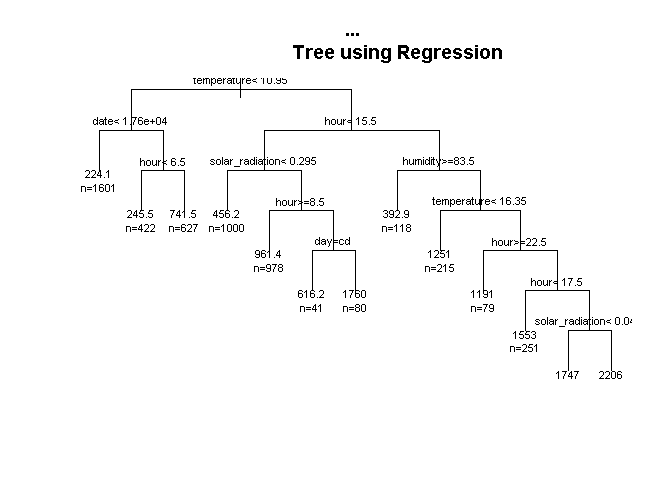
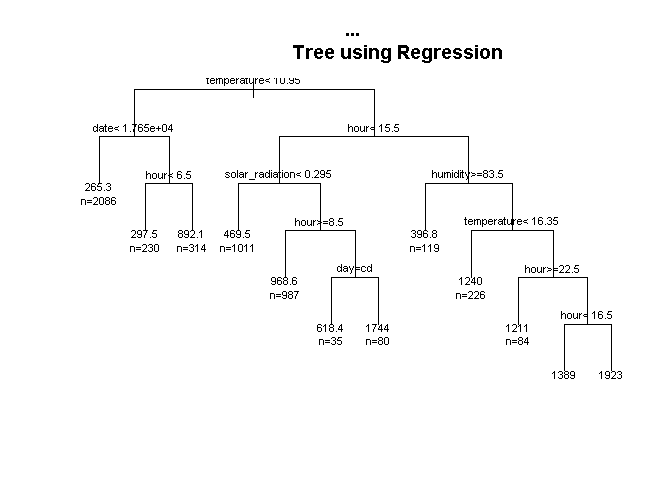
new commit

diff --git a/SeoulBikeRent/SeoulBikeRent.md b/SeoulBikeRent/SeoulBikeRent.md
@@ -347,7 +347,7 @@ ggplot(clean_bike, aes( x=date, y =rented_bike_count, color= temperature)) + geo
   facet_wrap(~seasons, scales = "free_x") +
 ylab('Count of Rented Bikes')  +
 xlab('Date') +
-ggtitle('Seasonal Bike Rent Dependency on Date in Seoul')  + 
+ggtitle('Seasonal Bike Rent Dependency in Seoul')  + 
  scale_fill_viridis(direction = -1)+
   scale_colour_viridis_c(option = "plasma")
 ```
@@ -380,13 +380,13 @@ glimpse(train)
     ## Rows: 5,917
     ## Columns: 13
     ## $ date              <date> 2017-12-01, 2017-12-01, 2017-12-01, 2017-12-01, 201~
-    ## $ rented_bike_count <int> 254, 204, 107, 78, 100, 460, 360, 449, 451, 447, 463~
-    ## $ hour              <int> 0, 1, 3, 4, 5, 7, 11, 12, 13, 14, 15, 16, 17, 18, 20~
-    ## $ temperature       <dbl> -5.2, -5.5, -6.2, -6.0, -6.4, -7.4, -0.5, 1.7, 2.4, ~
-    ## $ humidity          <int> 37, 38, 40, 36, 37, 38, 21, 23, 25, 26, 36, 54, 58, ~
-    ## $ wind_speed        <dbl> 2.2, 0.8, 0.9, 2.3, 1.5, 0.9, 1.3, 1.4, 1.6, 2.0, 3.~
-    ## $ visibility        <int> 2000, 2000, 2000, 2000, 2000, 2000, 1936, 2000, 2000~
-    ## $ solar_radiation   <dbl> 0.00, 0.00, 0.00, 0.00, 0.00, 0.00, 0.94, 1.11, 1.16~
+    ## $ rented_bike_count <int> 254, 173, 107, 78, 100, 181, 460, 930, 490, 360, 449~
+    ## $ hour              <int> 0, 2, 3, 4, 5, 6, 7, 8, 9, 11, 12, 13, 14, 15, 16, 1~
+    ## $ temperature       <dbl> -5.2, -6.0, -6.2, -6.0, -6.4, -6.6, -7.4, -7.6, -6.5~
+    ## $ humidity          <int> 37, 39, 40, 36, 37, 35, 38, 37, 27, 21, 23, 25, 26, ~
+    ## $ wind_speed        <dbl> 2.2, 1.0, 0.9, 2.3, 1.5, 1.3, 0.9, 1.1, 0.5, 1.3, 1.~
+    ## $ visibility        <int> 2000, 2000, 2000, 2000, 2000, 2000, 2000, 2000, 1928~
+    ## $ solar_radiation   <dbl> 0.00, 0.00, 0.00, 0.00, 0.00, 0.00, 0.00, 0.01, 0.23~
     ## $ rainfall          <dbl> 0, 0, 0, 0, 0, 0, 0, 0, 0, 0, 0, 0, 0, 0, 0, 0, 0, 0~
     ## $ snowfall          <dbl> 0, 0, 0, 0, 0, 0, 0, 0, 0, 0, 0, 0, 0, 0, 0, 0, 0, 0~
     ## $ seasons           <fct> Winter, Winter, Winter, Winter, Winter, Winter, Wint~
@@ -448,31 +448,29 @@ treem
     ## node), split, n, deviance, yval
     ##       * denotes terminal node
     ## 
-    ##   1) root 5917 2433531000  723.4610  
-    ##     2) temperature< 10.95 2650  289048900  349.9253  
-    ##       4) date< 17595.5 1601   38328480  224.1112 *
-    ##       5) date>=17595.5 1049  186699700  541.9447  
-    ##        10) hour< 6.5 422   11513210  245.4597 *
-    ##        11) hour>=6.5 627  113124500  741.4928 *
-    ##     3) temperature>=10.95 3267 1474809000 1026.4510  
-    ##       6) hour< 15.5 2099  472360900  744.4474  
-    ##        12) solar_radiation< 0.295 1000  118743600  456.2440 *
-    ##        13) solar_radiation>=0.295 1099  194977300 1006.6890  
-    ##          26) hour>=8.5 978  119879300  961.4059 *
-    ##          27) hour< 8.5 121   56883380 1372.6940  
-    ##            54) day=Saturday,Sunday 41    1003372  616.1951 *
-    ##            55) day=Friday,Monday,Thursday,Tuesday,Wednesday 80   20390820 1760.4000 *
-    ##       7) hour>=15.5 1168  535542100 1533.2380  
-    ##        14) humidity>=83.5 118   24171380  392.8898 *
-    ##        15) humidity< 83.5 1050  340679700 1661.3910  
-    ##          30) temperature< 16.35 215   42302330 1251.3530 *
-    ##          31) temperature>=16.35 835  252921600 1766.9700  
-    ##            62) hour>=22.5 79    4212652 1191.3670 *
-    ##            63) hour< 22.5 756  219799600 1827.1190  
-    ##             126) hour< 17.5 251   55706650 1553.0080 *
-    ##             127) hour>=17.5 505  135860000 1963.3600  
-    ##               254) solar_radiation< 0.045 267   36916210 1747.3000 *
-    ##               255) solar_radiation>=0.045 238   72496690 2205.7480 *
+    ##   1) root 5917 2446724000.0  724.7533  
+    ##     2) temperature< 10.95 2630  274453600.0  342.9532  
+    ##       4) date< 17653.5 2086  103247100.0  265.2977 *
+    ##       5) date>=17653.5 544  110390800.0  640.7279  
+    ##        10) hour< 6.5 230    6620799.0  297.5174 *
+    ##        11) hour>=6.5 314   56832630.0  892.1242 *
+    ##     3) temperature>=10.95 3287 1482143000.0 1030.2400  
+    ##       6) hour< 15.5 2113  471193900.0  753.3810  
+    ##        12) solar_radiation< 0.295 1011  126249000.0  469.5094 *
+    ##        13) solar_radiation>=0.295 1102  188733500.0 1013.8110  
+    ##          26) hour>=8.5 987  116382200.0  968.6089 *
+    ##          27) hour< 8.5 115   53026210.0 1401.7650  
+    ##            54) day=Saturday,Sunday 35     799626.6  618.4286 *
+    ##            55) day=Friday,Monday,Thursday,Tuesday,Wednesday 80   21354020.0 1744.4750 *
+    ##       7) hour>=15.5 1174  557480000.0 1528.5380  
+    ##        14) humidity>=83.5 119   24641260.0  396.8151 *
+    ##        15) humidity< 83.5 1055  363232000.0 1656.1920  
+    ##          30) temperature< 16.35 226   50886850.0 1240.4470 *
+    ##          31) temperature>=16.35 829  262633100.0 1769.5320  
+    ##            62) hour>=22.5 84    4065791.0 1211.4400 *
+    ##            63) hour< 22.5 745  229454200.0 1832.4580  
+    ##             126) hour< 16.5 126   24434300.0 1388.6110 *
+    ##             127) hour>=16.5 619  175145300.0 1922.8050 *
 
 ``` r
 plot(treem, uniform = TRUE,
@@ -523,7 +521,7 @@ eval_results(train$rented_bike_count, predictions_train_cart, train)
 ```
 
     ##       RMSE   Rsquare
-    ## 1 333.6741 0.7292867
+    ## 1 346.5611 0.7095468
 
 ``` r
 # Step 3 - predicting and evaluating the model on test data
@@ -535,7 +533,7 @@ eval_results(test$rented_bike_count, predictions_test_cart, test)
 ```
 
     ##       RMSE   Rsquare
-    ## 1 349.4473 0.7023783
+    ## 1 349.4655 0.6985858
 
 # gam model
 
@@ -548,31 +546,31 @@ summary(GAMsm)
     ## Call: gam(formula = rented_bike_count ~ ., data = train)
     ## Deviance Residuals:
     ##      Min       1Q   Median       3Q      Max 
-    ## -1163.17  -279.85   -56.05   209.98  2060.28 
+    ## -1122.43  -275.09   -57.52   208.58  2223.19 
     ## 
-    ## (Dispersion Parameter for gaussian family taken to be 187483.3)
+    ## (Dispersion Parameter for gaussian family taken to be 183908.2)
     ## 
-    ##     Null Deviance: 2433530952 on 5916 degrees of freedom
-    ## Residual Deviance: 1105588917 on 5897 degrees of freedom
-    ## AIC: 88654.61 
+    ##     Null Deviance: 2446724258 on 5916 degrees of freedom
+    ## Residual Deviance: 1084506380 on 5897 degrees of freedom
+    ## AIC: 88540.69 
     ## 
     ## Number of Local Scoring Iterations: 2 
     ## 
     ## Anova for Parametric Effects
     ##                   Df     Sum Sq   Mean Sq   F value    Pr(>F)    
-    ## date               1  372838759 372838759 1988.6507 < 2.2e-16 ***
-    ## hour               1  447890849 447890849 2388.9642 < 2.2e-16 ***
-    ## temperature        1  284111989 284111989 1515.3991 < 2.2e-16 ***
-    ## humidity           1  114824038 114824038  612.4495 < 2.2e-16 ***
-    ## wind_speed         1       6700      6700    0.0357  0.850068    
-    ## visibility         1    1655389   1655389    8.8295  0.002976 ** 
-    ## solar_radiation    1   14913209  14913209   79.5442 < 2.2e-16 ***
-    ## rainfall           1   25829060  25829060  137.7673 < 2.2e-16 ***
-    ## snowfall           1     547680    547680    2.9212  0.087474 .  
-    ## seasons            3   44868293  14956098   79.7730 < 2.2e-16 ***
-    ## holiday            1    6028631   6028631   32.1556 1.491e-08 ***
-    ## day                6   14427439   2404573   12.8255 1.901e-14 ***
-    ## Residuals       5897 1105588917    187483                        
+    ## date               1  375046525 375046525 2039.3143 < 2.2e-16 ***
+    ## hour               1  434846201 434846201 2364.4748 < 2.2e-16 ***
+    ## temperature        1  306537831 306537831 1666.7985 < 2.2e-16 ***
+    ## humidity           1  133476608 133476608  725.7786 < 2.2e-16 ***
+    ## wind_speed         1       7704      7704    0.0419   0.83783    
+    ## visibility         1    1128014   1128014    6.1336   0.01329 *  
+    ## solar_radiation    1   15162068  15162068   82.4437 < 2.2e-16 ***
+    ## rainfall           1   32497984  32497984  176.7077 < 2.2e-16 ***
+    ## snowfall           1     331857    331857    1.8045   0.17922    
+    ## seasons            3   45650328  15216776   82.7412 < 2.2e-16 ***
+    ## holiday            1    5241973   5241973   28.5032 9.704e-08 ***
+    ## day                6   12290786   2048464   11.1385 2.152e-12 ***
+    ## Residuals       5897 1084506380    183908                        
     ## ---
     ## Signif. codes:  0 '***' 0.001 '**' 0.01 '*' 0.05 '.' 0.1 ' ' 1
 
@@ -600,7 +598,7 @@ print(model_gbm)
     ##     n.cores = NULL)
     ## A gradient boosted model with gaussian loss function.
     ## 5000 iterations were performed.
-    ## The best cross-validation iteration was 4999.
+    ## The best cross-validation iteration was 4998.
     ## There were 10 predictors of which 10 had non-zero influence.
 
 ``` r
@@ -609,7 +607,7 @@ perf_gbm1 = gbm.perf(model_gbm, method = "cv")
 print(perf_gbm1)
 ```
 
-    ## [1] 4999
+    ## [1] 4998
 
 ``` r
 bike_prediction_1 <- stats::predict(
@@ -627,7 +625,7 @@ rmse_fit1 <- Metrics::rmse(actual = test$rented_bike_count,
 print(rmse_fit1)
 ```
 
-    ## [1] 248.0585
+    ## [1] 248.3717
 
 ``` r
 min_MSE <- which.min(model_gbm$cv.error)
@@ -636,7 +634,7 @@ min_MSE <- which.min(model_gbm$cv.error)
 sqrt(model_gbm$cv.error[min_MSE])
 ```
 
-    ## [1] 251.5696
+    ## [1] 253.442
 
 ``` r
 ## [1] 23112.1
@@ -647,7 +645,7 @@ gbm.perf( model_gbm, method = "cv")
 
 ![](SeoulBikeRent_files/figure-gfm/GBM-1.png)<!-- -->
 
-    ## [1] 4999
+    ## [1] 4998
 
 # XGboost
 
@@ -678,4 +676,4 @@ xgm
 #pred_test
 ```
 
-# Time-series forecasting
+# Time-series forecast
